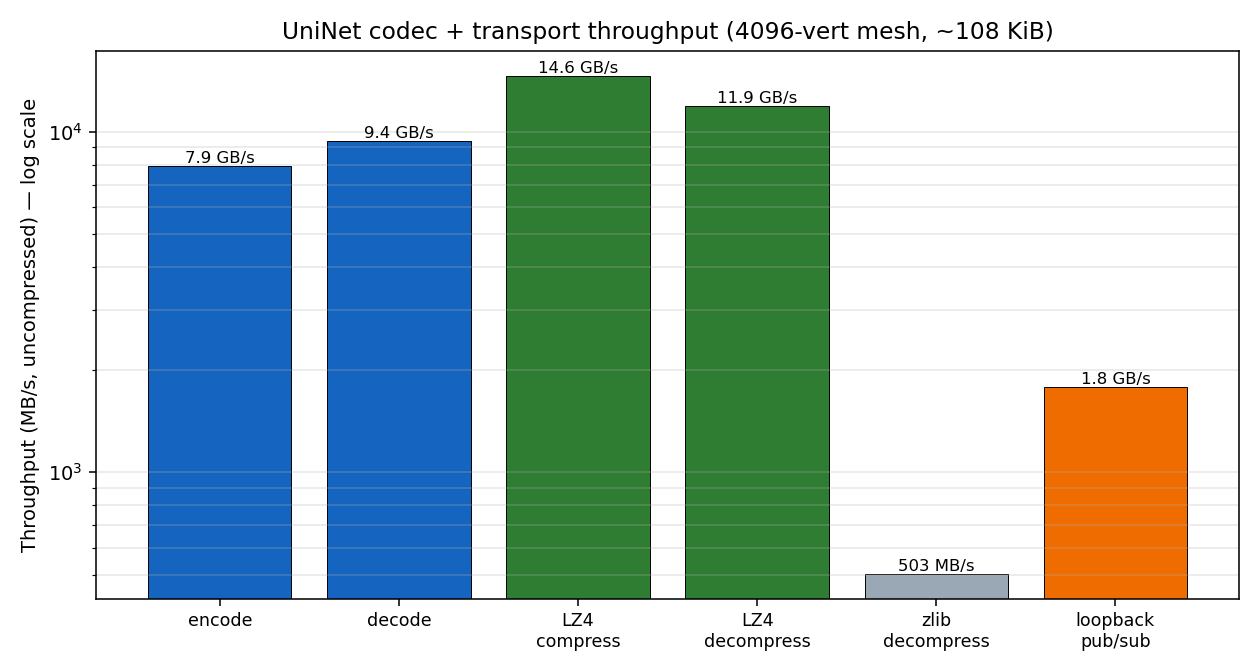
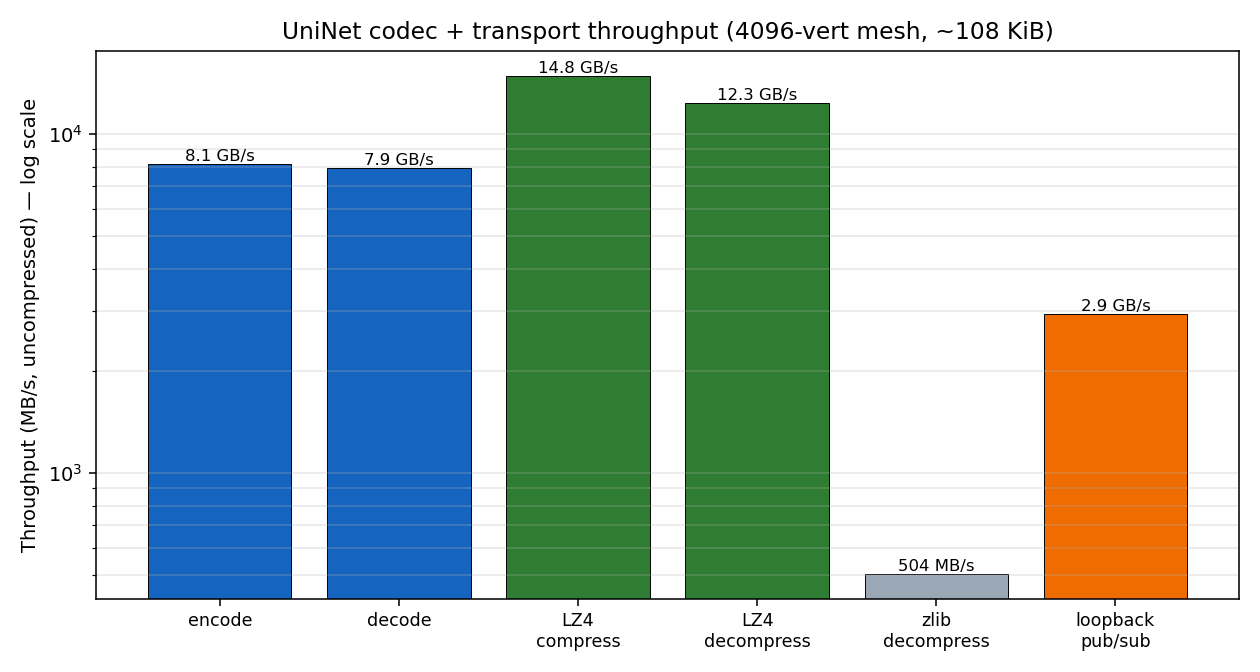
perf: clear routing header -> echo suppression without decompress (+45% loopback)
Move src/dst/compression into a clear binary header before the compressed core
(peek_routing). Node::on_raw_ now drops a peer's own echo and frames not
addressed to it WITHOUT decompressing or decoding. With compression on the old
format trapped src inside the compressed blob, forcing every receiver (incl. the
sender hearing its echo) to decompress+decode to decide whether to keep it.

Profiled effect (2000 lz4-framed pub/sub @ 4096): unframe/decode/decompress calls
4000 -> 2000; loopback 17.7k -> 27.8k msgs/s (+45%), 1.77 -> 2.93 GB/s. Over both
profiler-driven wins (encode bulk-write + this) loopback is 8.5k -> 27.8k (3.3x)
and total profiled time is down 65%; the per-op table is now balanced.

Wire-incompatible with the early internal single-header revision (no deployed peer
used it); docs/PROTOCOL.md updated. Tests pass.

diff --git a/src/codec.cpp b/src/codec.cpp
@@ -22,29 +22,58 @@ void set_compression_level(int level) {
     g_zlib_level = level;
 }
 
-// ── envelope <-> cbor ──
+// ── envelope core <-> cbor (subject/data/version only; routing is in the header) ──
 Cbor to_cbor(const Envelope& e) {
     return Cbor::map()
         .set("pv", Cbor::uint(e.protocol_version))
-        .set("cp", Cbor::uint(uint8_t(e.compression)))
-        .set("src", Cbor::text(e.src_uuid))
-        .set("dst", Cbor::text(e.dst_uuid))
         .set("sub", Cbor::text(e.subject))
         .set("data", e.data);
 }
 
 std::optional<Envelope> from_cbor(const Cbor& c) {
-    if (!c.is_map() || !c.has("src") || !c.has("sub") || !c.has("data"))
+    if (!c.is_map() || !c.has("sub") || !c.has("data"))
         return std::nullopt;
     Envelope e;
     e.protocol_version = c.has("pv") ? uint16_t(c["pv"].as_uint()) : 1;
-    e.compression = c.has("cp") ? Compression(uint8_t(c["cp"].as_uint())) : Compression::None;
-    if (uint8_t(e.compression) > 2) return std::nullopt;
-    e.src_uuid = c["src"].as_text();
-    e.dst_uuid = c.has("dst") ? c["dst"].as_text() : std::string{};
     e.subject  = c["sub"].as_text();
     e.data     = c["data"];
+    // src_uuid / dst_uuid / compression are filled by unframe() from the header.
     return e;
+}
+
+// ── wire header (routing in the clear) ──
+//   [ comp:1 ][ flags:1 ][ srclen:2 BE ][ src ][ dstlen:2 BE ][ dst ]
+namespace {
+struct Header {
+    Compression compression = Compression::None;
+    std::string src, dst;
+    size_t payload_offset = 0;
+    bool ok = false;
+};
+inline uint16_t rd_be16(const uint8_t* p) { return uint16_t((uint16_t(p[0]) << 8) | p[1]); }
+Header parse_header(const uint8_t* p, size_t n) {
+    Header h;
+    if (n < 4) return h;                       // comp + flags + srclen minimum
+    h.compression = Compression(p[0]);
+    if (uint8_t(h.compression) > 2) return h;  // unknown codec
+    size_t i = 2;                              // skip comp + flags
+    uint16_t sl = rd_be16(p + i); i += 2;
+    if (i + sl > n) return h;
+    h.src.assign(reinterpret_cast<const char*>(p + i), sl); i += sl;
+    if (i + 2 > n) return h;
+    uint16_t dl = rd_be16(p + i); i += 2;
+    if (i + dl > n) return h;
+    h.dst.assign(reinterpret_cast<const char*>(p + i), dl); i += dl;
+    h.payload_offset = i;
+    h.ok = (i < n);                            // need at least one payload byte
+    return h;
+}
+}  // namespace
+
+std::optional<Routing> peek_routing(const Bytes& wire) {
+    Header h = parse_header(wire.data(), wire.size());
+    if (!h.ok) return std::nullopt;
+    return Routing{h.compression, h.src, h.dst};
 }
 
 // ── compression ──
@@ -120,32 +149,45 @@ Bytes decompress(const Bytes& comp, Compression method) {
     return {};
 }
 
-// ── wire framing ──
+// ── wire framing (clear routing header + compressed core) ──
+namespace {
+inline void wr_be16(Bytes& b, uint16_t v) { b.push_back(uint8_t(v >> 8)); b.push_back(uint8_t(v)); }
+}
+
 Bytes frame(const Envelope& e) {
     profiler::ScopedOp _("frame");
-    Bytes cbor = encode(to_cbor(e));
-    Bytes payload = (e.compression == Compression::None) ? cbor : compress(cbor, e.compression);
+    Bytes core = encode(to_cbor(e));
+    Bytes payload = (e.compression == Compression::None) ? core : compress(core, e.compression);
     Bytes wire;
-    wire.reserve(payload.size() + 1);
-    wire.push_back(uint8_t(e.compression));
+    wire.reserve(payload.size() + 2 + 2 + e.src_uuid.size() + 2 + e.dst_uuid.size() + 1);
+    wire.push_back(uint8_t(e.compression));   // comp
+    wire.push_back(0);                          // flags (reserved)
+    wr_be16(wire, uint16_t(e.src_uuid.size())); wire.insert(wire.end(), e.src_uuid.begin(), e.src_uuid.end());
+    wr_be16(wire, uint16_t(e.dst_uuid.size())); wire.insert(wire.end(), e.dst_uuid.begin(), e.dst_uuid.end());
     wire.insert(wire.end(), payload.begin(), payload.end());
-    _.set_bytes_in(cbor.size());
+    _.set_bytes_in(core.size());
     _.set_bytes_out(wire.size());
     return wire;
 }
 
 std::optional<Envelope> unframe(const Bytes& wire) {
-    profiler::ScopedOp _("unframe", wire.size(), wire.size());
-    if (wire.size() < 2) return std::nullopt;   // 1 header byte + >=1 payload byte
-    Compression method = Compression(wire[0]);
-    if (uint8_t(method) > 2) return std::nullopt;
-    Bytes payload(wire.begin() + 1, wire.end());
-    Bytes cbor = (method == Compression::None) ? payload : decompress(payload, method);
-    if (cbor.empty()) return std::nullopt;
+    profiler::ScopedOp _("unframe");
+    Header h = parse_header(wire.data(), wire.size());
+    if (!h.ok) return std::nullopt;
+    Bytes payload(wire.begin() + h.payload_offset, wire.end());
+    Bytes core = (h.compression == Compression::None) ? payload : decompress(payload, h.compression);
+    if (core.empty()) return std::nullopt;
     bool ok = false;
-    Cbor root = decode(cbor.data(), cbor.size(), &ok);
+    Cbor root = decode(core.data(), core.size(), &ok);
     if (!ok) return std::nullopt;
-    return from_cbor(root);
+    auto env = from_cbor(root);
+    if (!env) return std::nullopt;
+    env->compression = h.compression;
+    env->src_uuid = std::move(h.src);
+    env->dst_uuid = std::move(h.dst);
+    _.set_bytes_in(wire.size());
+    _.set_bytes_out(core.size());
+    return env;
 }
 
 }  // namespace uninet

diff --git a/include/uninet/codec.h b/include/uninet/codec.h
@@ -2,13 +2,17 @@
 // every peer shares: who sent it, who it's for, what subject, and an arbitrary
 // Cbor payload. `frame()` produces the on-wire bytes; `unframe()` parses them.
 //
-// Wire format (see docs/PROTOCOL.md):
-//   frame = [ 1 byte: compression ][ payload ]
-//   payload = compression==None ? encode(envelope) : compress(encode(envelope))
+// Wire format (see docs/PROTOCOL.md) — routing in a CLEAR header, content
+// compressed, so a receiver can filter echoes/targeting WITHOUT decompressing:
 //
-// The compression header byte is the single negotiation field that lets a receiver
-// always decode — fixing the bug where ThermoNavMR/Server/Slicer each ship LZ4
-// code but force it off (a peer can't tell how a frame was encoded).
+//   frame = [ comp:1 ][ flags:1 ][ srclen:2 BE ][ src ][ dstlen:2 BE ][ dst ][ payload ]
+//   payload = comp==None ? encode(core) : compress(encode(core))
+//   core    = { "pv": uint, "sub": text, "data": <any> }   // src/dst live in the header
+//
+// This split is what lets Node::on_raw_ drop a peer's own echo (and messages not
+// addressed to it) at the cost of reading ~tens of header bytes — no decompress,
+// no CBOR decode. With compression on (the recommended config) that is the
+// difference between decoding every frame twice and decoding it once.
 #pragma once
 
 #include "uninet/cbor.h"
@@ -22,14 +26,24 @@ namespace uninet {
 struct Envelope {
     uint16_t protocol_version = CURRENT_PROTOCOL_VERSION;
     Compression compression = Compression::None;
-    std::string src_uuid;          // sender
-    std::string dst_uuid;          // "" = broadcast; else targeted unicast
-    std::string subject;           // e.g. "domain.D1"
-    Cbor data;                     // arbitrary message payload
+    std::string src_uuid;          // sender (wire: header)
+    std::string dst_uuid;          // "" = broadcast; else targeted unicast (wire: header)
+    std::string subject;           // e.g. "domain.D1" (wire: core)
+    Cbor data;                     // arbitrary message payload (wire: core)
 };
 
-Cbor to_cbor(const Envelope& e);                       // envelope -> Cbor map
-std::optional<Envelope> from_cbor(const Cbor& c);      // Cbor map -> envelope
+// Core (subject + data + version) <-> Cbor. Routing (src/dst/compression) is NOT
+// in the Cbor — it rides in the binary header so it stays readable when compressed.
+Cbor to_cbor(const Envelope& e);
+std::optional<Envelope> from_cbor(const Cbor& c);   // reads core; src/dst/compression left default
+
+// Routing lifted from the wire header — cheap, no decompress/decode.
+struct Routing {
+    Compression compression = Compression::None;
+    std::string src;
+    std::string dst;
+};
+std::optional<Routing> peek_routing(const Bytes& wire);
 
 // Deflate level for the zlib codec (1..9). Lower = faster + worse ratio. Default 6.
 void set_compression_level(int level);
@@ -40,7 +54,7 @@ void set_compression_level(int level);
 Bytes compress(const Bytes& raw, Compression method);
 Bytes decompress(const Bytes& comp, Compression method);
 
-// Full wire frame of an envelope (uses e.compression).
+// Full wire frame of an envelope (header + compressed core).
 Bytes frame(const Envelope& e);
 std::optional<Envelope> unframe(const Bytes& wire);
 

diff --git a/src/node.cpp b/src/node.cpp
@@ -84,12 +84,17 @@ void Node::subscribe(const std::string& subject, DataHandler handler) {
 }
 
 void Node::on_raw_(const std::string& subject, const Bytes& payload) {
+    // Cheap routing filter BEFORE any decompress/decode: read src/dst from the
+    // clear header and drop this peer's own echo (and frames not addressed to it)
+    // without touching the compressed payload. With LZ4/zlib on, this is what
+    // keeps a publisher from decoding every frame it sends.
+    auto route = peek_routing(payload);
+    if (!route) return;
+    if (route->src == uuid_) return;                          // own echo
+    if (!route->dst.empty() && route->dst != uuid_) return;   // not addressed to me
+
     auto env = unframe(payload);
     if (!env) return;
-    // Protocol-level filters — the logic each peer hand-rolls today, written once.
-    if (env->src_uuid == uuid_) return;                       // drop own echo
-    if (!env->dst_uuid.empty() && env->dst_uuid != uuid_)     // not addressed to me
-        return;
     if (env->protocol_version != CURRENT_PROTOCOL_VERSION) {
         // Forward-compatible policy: accept the major, ignore unrecognized fields.
     }

diff --git a/README.md b/README.md
@@ -157,31 +157,38 @@ python3 tools/plot_benchmark.py     # reads the CSV -> regenerates docs/benchmar
 
 | op | throughput | notes |
 |---|---|---|
-| **decode** | **9.4 GB/s** | memory-bandwidth-bound (bulk float-array fast path) |
-| **encode** | **7.9 GB/s** | bulk-write fast path (was 1.3 GB/s — see below) |
-| **frame** | 4.9 GB/s | encode + compress |
-| **unframe** | 4.4 GB/s | decompress + decode |
-| **LZ4 compress** | **14.6 GB/s** (ratio 1.42×) | 108 KiB → 76 KiB on the wire |
-| **LZ4 decompress** | **11.9 GB/s** | |
+| **encode** | **8.1 GB/s** | bulk-write fast path (was 1.3 GB/s — see below) |
+| **decode** | **7.9 GB/s** | memory-bandwidth-bound (bulk float-array fast path) |
+| **frame** | 5.0 GB/s | encode + compress |
+| **unframe** | 4.2 GB/s | decompress + decode |
+| **LZ4 compress** | **14.8 GB/s** (ratio 1.42×) | 108 KiB → 76 KiB on the wire |
+| **LZ4 decompress** | **12.3 GB/s** | |
 | zlib compress | 36 MB/s (ratio 2.29×) | 108 KiB → 47 KiB — best ratio, too slow for live |
-| zlib decompress | 503 MB/s | |
-| **loopback pub/sub** | **17.7k msgs/s · 1.77 GB/s** | full encode→unframe→dispatch round-trip |
+| zlib decompress | 504 MB/s | |
+| **loopback pub/sub** | **27.8k msgs/s · 2.93 GB/s** | full encode→unframe→dispatch round-trip |
 
-**How the profiler found a 6× win (and a 2× loopback win).** The first profiled run
-flagged `cbor.encode` as the dominant cost — encoding ran at **1.3 GB/s vs decode's
-7.8 GB/s (6× slower)**, and it was 86% of framing time. The report showed why
-immediately: the float-array path did one `push_back` per byte (61k calls + repeated
-reallocs) while decode read the same data in a tight bulk loop. Switching encode to
-pre-size the buffer and write directly into it (no per-byte check) lifted encode to
-**7.9 GB/s** and **doubled end-to-end loopback throughput** (8.5k → 17.7k msgs/s) —
-because every publish pays the encode cost. The win came directly from the breakdown,
-not from guessing.
+**Two profiler-driven wins so far (loopback 8.5k → 27.8k msgs/s = 3.3×):**
 
-**The next lever the profiler now surfaces** (staged): in the loopback profile
-`unframe`/`cbor.decode`/`decompress.lz4` run **4000× for 2000 publishes** — each
-publisher decodes its *own echo* and then discards it. A cheap sender peek in
-`Node::on_raw_` would roughly halve receive-side work. The diagnostic shows exactly
-where; the fix is a separate change.
+1. **`cbor.encode` 6× win.** The first profile flagged encoding as the dominant cost —
+   1.3 GB/s vs decode's 7.8 (6× slower), 86% of framing time. Cause: the float-array
+   path did one `push_back` per byte (61k calls + reallocs) while decode read bulk.
+   Switching encode to pre-size and write directly lifted it to **8.1 GB/s** and
+   doubled loopback (every publish pays the encode cost).
+
+2. **Echo suppression without decompress.** The next profile showed
+   `unframe`/`decode`/`decompress` running **4000× for 2000 publishes** — each
+   publisher was decoding its *own echo* then discarding it, and with compression on
+   it had to decompress first just to read `src`. Fix: put `src`/`dst`/compression in
+   a **clear binary header** before the compressed core (`peek_routing`), so
+   `Node::on_raw_` drops echoes *before* touching the payload. `unframe` calls halved
+   (4k → 2k) and loopback rose another **+45%** (17.7k → 27.8k).
+
+Both wins came straight from the breakdown — total profiled time dropped 65% over
+the two changes, and the per-op table now shows the cost is **balanced** (no single
+dominant leaf: `node.publish` 30% aggregate, `loopback.deliver`/`unframe` ~16% each,
+`frame` ~14%). That balance is the signal that the easy wins are exhausted and the
+remaining work is a design trade-off (the `loopback.deliver` safety copy, async
+dispatch) rather than a bug.
 
 **What the tier numbers say:**
 - **LZ4 is essentially free and should stay on for every frame** — 14.6 GB/s with a

diff --git a/docs/PROTOCOL.md b/docs/PROTOCOL.md
@@ -13,33 +13,46 @@ and LZ4 code that nobody could enable. UniNet is that bus, written once.
 - **One contract** shared by every peer (server, MR headset, Slicer, future mesh node).
 - **Transport-agnostic:** the framing/codec are independent of how bytes travel
   (NATS today; loopback for tests; mesh/BLE staged) via a `Transport` interface.
-- **Negotiated compression:** a 1-byte header tells a receiver how the frame was
-  encoded, so LZ4 can finally be turned on without breaking peers.
+- **Routing in the clear, content compressed:** `src`/`dst`/compression ride in a
+  binary header *before* the (possibly compressed) payload, so a receiver can drop
+  its own echo and frames not addressed to it **without decompressing or decoding**.
+- **Negotiated compression:** the header tells a receiver how the core was encoded,
+  so LZ4 can finally be turned on without breaking peers.
 - **Forward-compatible:** a protocol version gates every frame.
 
 ## Wire frame
 
 ```
-frame = [ 1 byte: compression ][ payload ]
-payload = compression==None ? CBOR(envelope) : compress(CBOR(envelope))
+frame = [ comp:1 ][ flags:1 ][ srclen:2 BE ][ src ][ dstlen:2 BE ][ dst ][ payload ]
+payload = comp==None ? CBOR(core) : compress(CBOR(core))
+core    = { "pv": uint, "sub": text, "data": <any> }     # routing is NOT here
 ```
 
-`compression` is an unsigned byte: `0`=None, `1`=Zlib (deflate), `2`=LZ4 frame.
-This single header byte is the field the ThermoNav peers lacked — each shipped LZ4
-code force-disabled to None because no peer could tell how a frame was encoded.
+`comp` is an unsigned byte: `0`=None, `1`=Zlib (deflate), `2`=LZ4 frame. `flags`
+is reserved (0). Lengths are 2-byte big-endian. `src`/`dst` are the sender /
+intended-receiver UUIDs (`dst` empty = broadcast).
 
-## Envelope (CBOR map)
+This split is what the old single-byte-header design couldn't do: with compression
+on, `src`/`dst` would be trapped inside the compressed blob, forcing every receiver
+(including the sender hearing its own echo) to decompress + decode just to decide
+whether to keep the frame. Keeping routing in the clear makes echo suppression and
+unicast targeting nearly free — the profiler showed `unframe` running 4000× for
+2000 publishes before this change; it now runs 2000×.
+
+## Envelope core (CBOR map)
 
 ```
 {
   "pv":  uint    protocol version (uint16; CURRENT_PROTOCOL_VERSION = 1)
-  "cp":  uint    compression byte used for THIS frame (0/1/2; mirrors the header)
-  "src": text    sender UUID
-  "dst": text    "" = broadcast; else a targeted peer UUID (unicast)
   "sub": text    subject, e.g. "domain.D1" (NATS-style; ">" wildcard for subs)
   "data": <any>  the message payload (see "Message payloads")
 }
 ```
+
+`src`, `dst` and `compression` are reconstructed by `unframe()` from the binary
+header — they are not in the CBOR core. (They were in v0.1's single-header form;
+the split is the only in-place evolution since then and is wire-incompatible with
+that early internal revision, which no deployed peer used.)
 
 A receiver accepts a frame when `src != self` (echo suppression) **and**
 (`dst == ""` or `dst == self`). Addressing is by UUID in the envelope, not by
